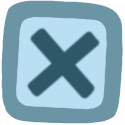
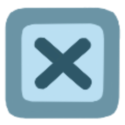
finalize close button

diff --git a/src/components/game.ts b/src/components/game.ts
@@ -123,15 +123,15 @@ class GameScene extends Phaser.Scene {
 
 	showStore() {
 		this.storeButton.disableInteractive();
-		const background = this.add.existing(new RoundRectangle(this, 0, 0, 370, 450, 15, 0x16252e));
+		const background = this.add.existing(new RoundRectangle(this, 0, 0, 380, 450, 15, 0x16252e));
 		this.storeContainer.add(background);
 		PlayFabClient.GetStoreItems({ StoreId: "Main" }, (error, result) => {
 			result.data.Store.forEach((storeItem: PlayFabClientModels.StoreItem) => {
 				this.makeStoreItem(storeItem);
 			});
 			const closeButton = this.add
-				.image(170, -210, "close")
-				.setScale(0.4)
+				.image(175, -215, "close")
+				.setScale(0.35)
 				.setInteractive({ useHandCursor: true })
 				.on("pointerup", () => {
 					this.add.tween({
